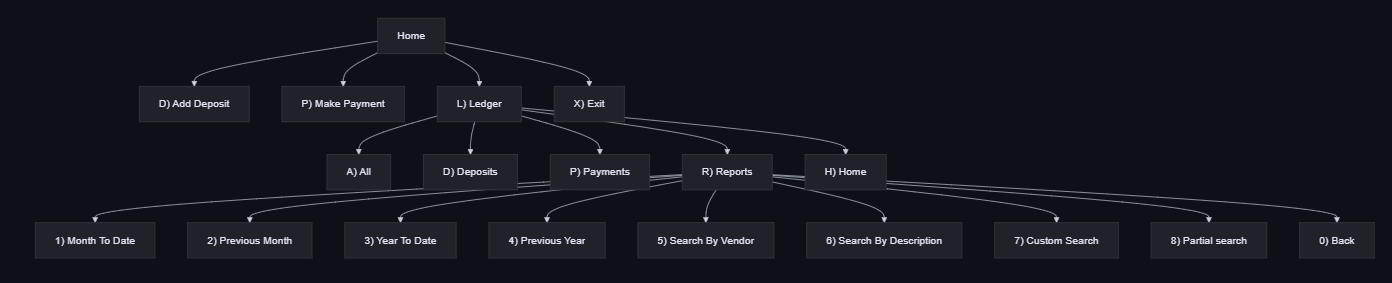
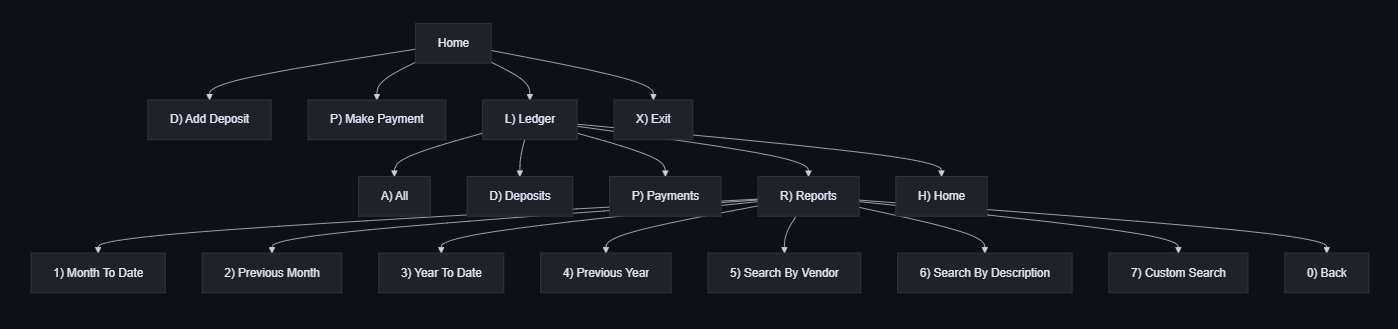
- Remove Parcel Search

diff --git a/src/main/java/com/pluralsight/App.java b/src/main/java/com/pluralsight/App.java
@@ -106,7 +106,6 @@ public class App {
             System.out.println("5) Search By Vendor");
             System.out.println("6) Search By Description");
             System.out.println("7) Custom Search");
-            System.out.println("8) Partial Search");
             System.out.println("0) Back");
             System.out.println();
             System.out.print("Enter a command: ");
@@ -120,7 +119,6 @@ public class App {
                 case "5" -> searchByVendor();
                 case "6" -> searchByDescription();
                 case "7" -> customSearch();
-                case "8" -> partialSearch();
                 case "0" -> System.out.println("Back to Ledger");
                 default -> System.out.println("That isn't a command. Try again.");
             }
@@ -197,15 +195,6 @@ public class App {
         String text = promptForString("Part of the description: ");
 
         displayEntries("Description: " + text, findByDescription(text));
-        pressEnterToContinue();
-    }
-
-    private static void partialSearch() {
-        displayTitle("Partial Search");
-        System.out.println(style("Type part of a description or a vendor name.", GRAY));
-        String text = promptForString("Search text: ");
-
-        displayEntries("Partial Search: " + text, findByPartialText(text));
         pressEnterToContinue();
     }
 
@@ -366,17 +355,6 @@ public class App {
         return matches;
     }
 
-    private static List<Transaction> findByPartialText(String text) {
-        String lowerText = text.toLowerCase();
-        List<Transaction> matches = new ArrayList<>();
-        for (Transaction transaction : transactions) {
-            if (transaction.getDescription().toLowerCase().contains(lowerText)
-                    || transaction.getVendor().toLowerCase().contains(lowerText)) {
-                matches.add(transaction);
-            }
-        }
-        return matches;
-    }
 
     private static List<Transaction> findByCustomSearch(LocalDate startDate, LocalDate endDate,
                                                         String description, String vendor, Double amount) {

diff --git a/README.md b/README.md
@@ -16,8 +16,7 @@ Transactions are saved in transactions.csv, and you can look at them in a ledger
 - Long lists show 20 at a time, with Enter for more or Q to stop
 - Color: deposits show in green and payments in red (set `USE_COLOR` to `false` in `App.java` to turn it off)
 - Every screen has a title badge, and every list has gray dividers
-- - Search by Description: type part of a description and see every match
-- Partial Search: type part of a word and see every transaction whose description or vendor contains it
+- Search by Description: type part of a description and see every match
 
 ### How to Run It
 1. Clone the repository and open it in IntelliJ
@@ -101,7 +100,6 @@ Transactions are saved in transactions.csv, and you can look at them in a ledger
             System.out.println("5) Search By Vendor");
             System.out.println("6) Search By Description");
             System.out.println("7) Custom Search");
-            System.out.println("8) Partial Search");
             System.out.println("0) Back");
             System.out.println();
             System.out.print("Enter a command: ");
@@ -115,7 +113,6 @@ Transactions are saved in transactions.csv, and you can look at them in a ledger
                 case "5" -> searchByVendor();
                 case "6" -> searchByDescription();
                 case "7" -> customSearch();
-                case "8" -> partialSearch();
                 case "0" -> System.out.println("Back to Ledger");
                 default -> System.out.println("That isn't a command. Try again.");
             }
